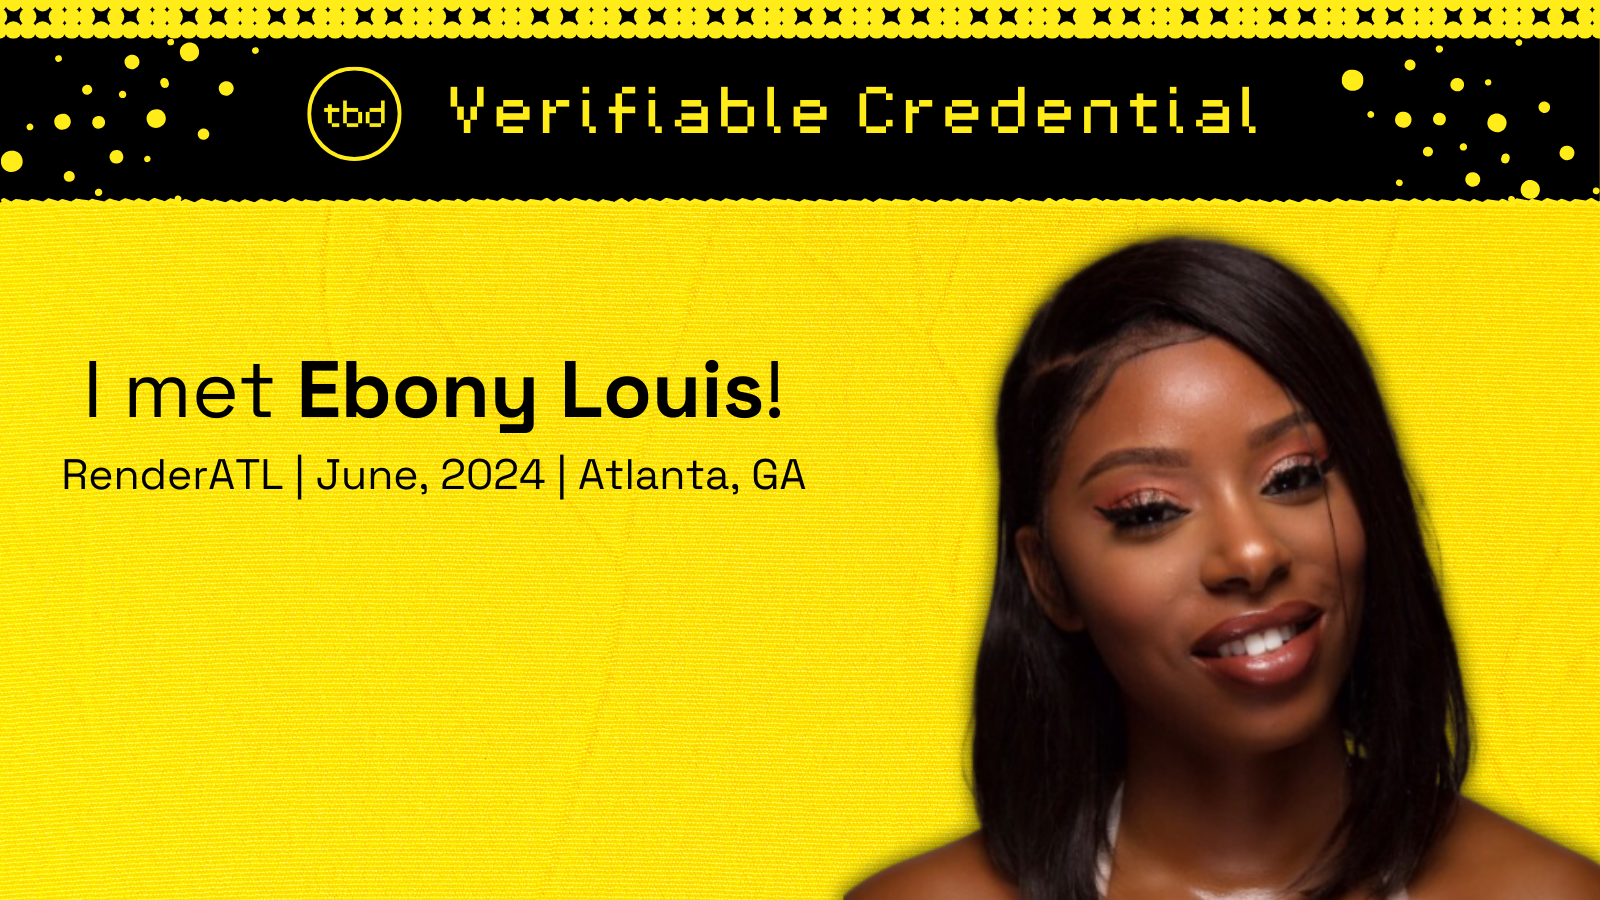
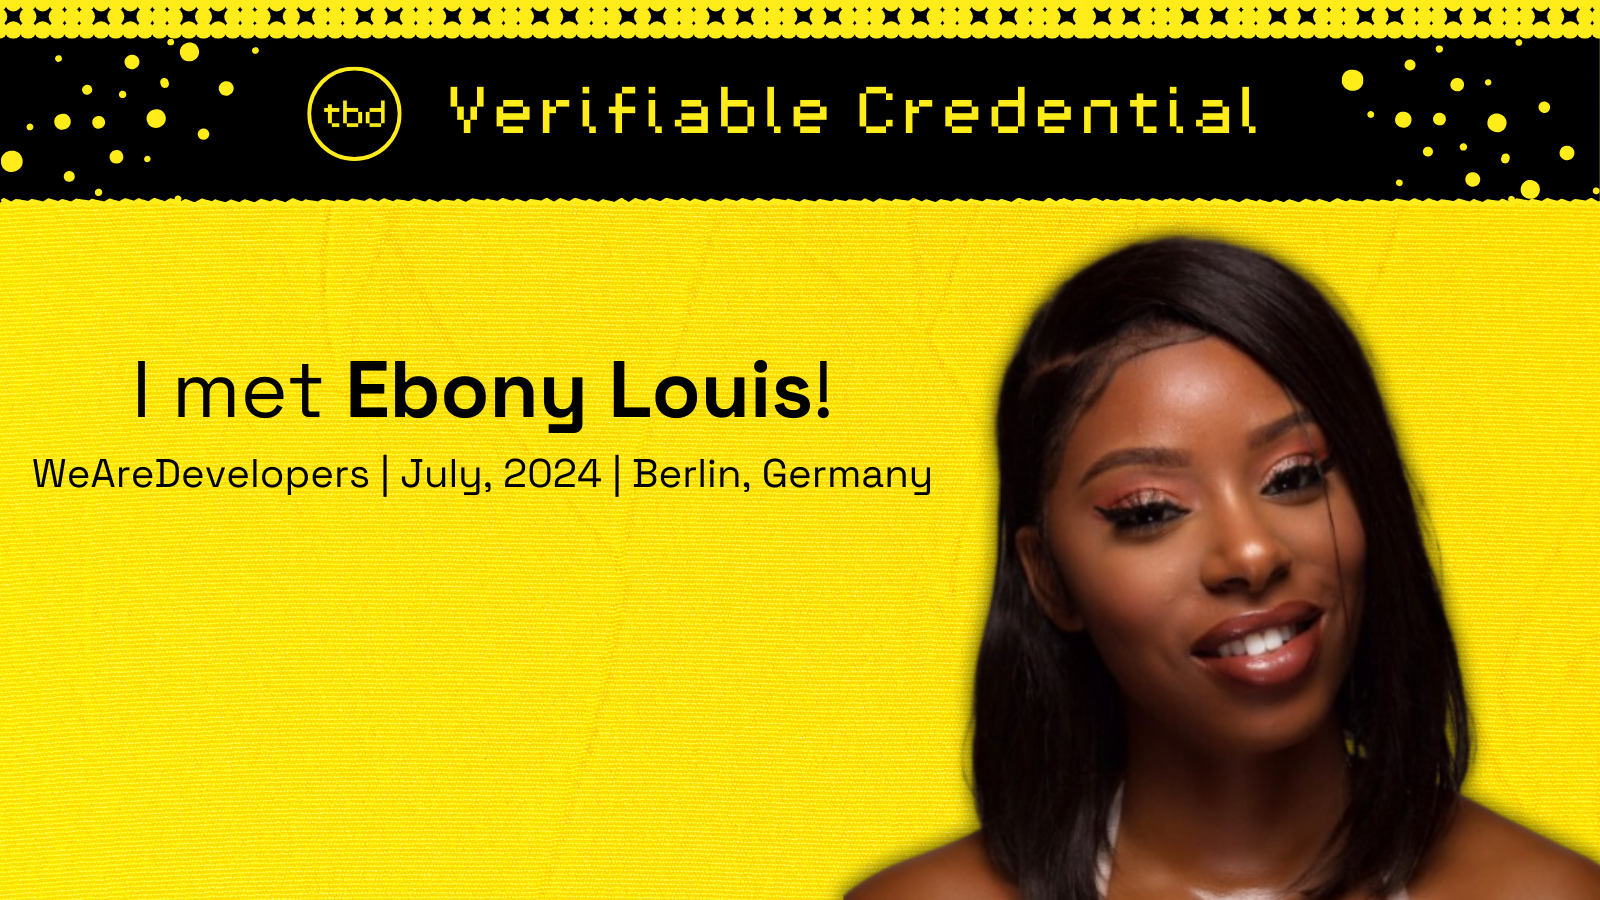
updating scavenger hunt for WAD

Changed region(s): [[0.0312, 0.4044, 0.5938, 0.56]]

diff --git a/site/src/components/renderatl/RenderVcCard.jsx b/site/src/components/renderatl/RenderVcCard.jsx
@@ -5,12 +5,12 @@ import { VerifiableCredential } from '@web5/credentials';
 import { useHistory } from '@docusaurus/router';
 
 const people = [
-    { name: 'Adewale Abati', urlParam: 'ace' },
     { name: 'Angie Jones', urlParam: 'angie' },
+    { name: 'Kirah Sapong', urlParam: 'kirah' },
     { name: 'Ebony Louis', urlParam: 'ebony' },
-    { name: 'Kia Richards', urlParam: 'kia' },
-    { name: 'Rizel Scarlett', urlParam: 'rizel' },
-    { name: 'Tania Chakraborty', urlParam: 'tania' }
+    { name: 'Tania Chakraborty', urlParam: 'tania' },
+    { name: 'Adewale Abati', urlParam: 'ace' },
+    { name: 'Daniel Buchner', urlParam: 'daniel' },
 ];
 
 const RenderVcCard = ({ met }) => {
@@ -32,7 +32,7 @@ const RenderVcCard = ({ met }) => {
 
                 const { web5, did: userDid } = await Web5.connect();
                 const issuerDid = await DidDht.create({ publish: true });
-                const schema = `https://schema.org/renderAtlScavengerHunt`;
+                const schema = `https://schema.org/wadScavengerHunt`;
 
                 const { records } = await web5.dwn.records.query({
                     from: userDid,
@@ -64,7 +64,7 @@ const RenderVcCard = ({ met }) => {
                             vcJwt: existingVc.vcJwt,
                             image: `/img/${met}VcCard.png`,
                         });
-                        history.push('/renderatl-scavengerhunt');
+                        history.push('/wad-scavengerhunt');
                         return;
                     }
                 }
@@ -78,7 +78,7 @@ const RenderVcCard = ({ met }) => {
                         issuanceDate: new Date().toISOString(),
                         data: {
                             met: person.name,
-                            event: 'RenderATL',
+                            event: 'WAD',
                         },
                     });
 
@@ -103,7 +103,7 @@ const RenderVcCard = ({ met }) => {
                         image: `/img/${met}VcCard.png`,
                     });
 
-                    history.push('/renderatl-scavengerhunt');
+                    history.push('/wad-scavengerhunt');
                     console.log("VC created and state updated")
                 }
             } catch (err) {

diff --git a/site/src/components/renderatl/RenderScavengerHunt.jsx b/site/src/components/renderatl/RenderScavengerHunt.jsx
@@ -3,12 +3,12 @@ import Confetti from 'react-confetti';
 import ProgressBar from './ProgressBar';
 
 const people = [
-    { name: 'Adewale Abati', urlParam: 'ace' },
     { name: 'Angie Jones', urlParam: 'angie' },
+    { name: 'Kirah Sapong', urlParam: 'kirah' },
     { name: 'Ebony Louis', urlParam: 'ebony' },
-    { name: 'Kia Richards', urlParam: 'kia' },
-    { name: 'Rizel Scarlett', urlParam: 'rizel' },
-    { name: 'Tania Chakraborty', urlParam: 'tania' }
+    { name: 'Tania Chakraborty', urlParam: 'tania' },
+    { name: 'Adewale Abati', urlParam: 'ace' },
+    { name: 'Daniel Buchner', urlParam: 'daniel' },
 ];
 
 const RenderScavengerHunt = () => {
@@ -23,7 +23,7 @@ const RenderScavengerHunt = () => {
     const fetchFoundVCs = async () => {
       const { Web5 } = await import('@web5/api');
       const { web5, did: userDid } = await Web5.connect();
-      const schema = `https://schema.org/renderAtlScavengerHunt`;
+      const schema = `https://schema.org/wadScavengerHunt`;
 
       const response = await web5.dwn.records.query({
         from: userDid,
@@ -62,8 +62,8 @@ const RenderScavengerHunt = () => {
           </div>
         ) : (
           <>
-          <h1>Pull Up On Us</h1>
-            <p> Find all 6 members of the TBD team at RenderATL! Scan their QR codes to collect all Verifiable Credentials and win a prize! 🎁</p>
+          <h1 className="pt-4">Pull Up On Us</h1>
+            <p> Find all 6 members of the TBD team at WeAreDevelopers World Congress! Scan their QR codes to collect all Verifiable Credentials and win a prize! 🎁</p>
             <br />
             <p>Learn more about the magic of <a href="/docs/web5/learn/verifiable-credentials" style={{ color: 'cyan', textDecoration: 'underline' }}>
                 Verifiable Credentials

diff --git a/site/src/components/renderatl/GetVC.jsx b/site/src/components/renderatl/GetVC.jsx
@@ -7,11 +7,11 @@ const RenderVcCard = React.lazy(() => import('./RenderVcCard'));
 // Static data moved outside the component
 const people = [
     { name: 'Angie Jones', urlParam: 'angie' },
-    { name: 'Rizel Scarlet', urlParam: 'rizel' },
+    { name: 'Kirah Sapong', urlParam: 'kirah' },
     { name: 'Ebony Louis', urlParam: 'ebony' },
     { name: 'Tania Chakraborty', urlParam: 'tania' },
     { name: 'Adewale Abati', urlParam: 'ace' },
-    { name: 'Kia Richards', urlParam: 'kia' },
+    { name: 'Daniel Buchner', urlParam: 'daniel' },
 ];
 
 const GetVC = () => {
@@ -28,11 +28,11 @@ const GetVC = () => {
                 setPerson(matchedPerson);
             } else {
                 console.error('No matching person found for the given URL parameter.');
-                history.push('/renderatl-scavengerhunt');
+                history.push('/wad-scavengerhunt');
             }
         } else {
             console.error('No URL parameter provided.');
-            history.push('/renderatl-scavengerhunt');
+            history.push('/wad-scavengerhunt');
         }
     }, []);
 
